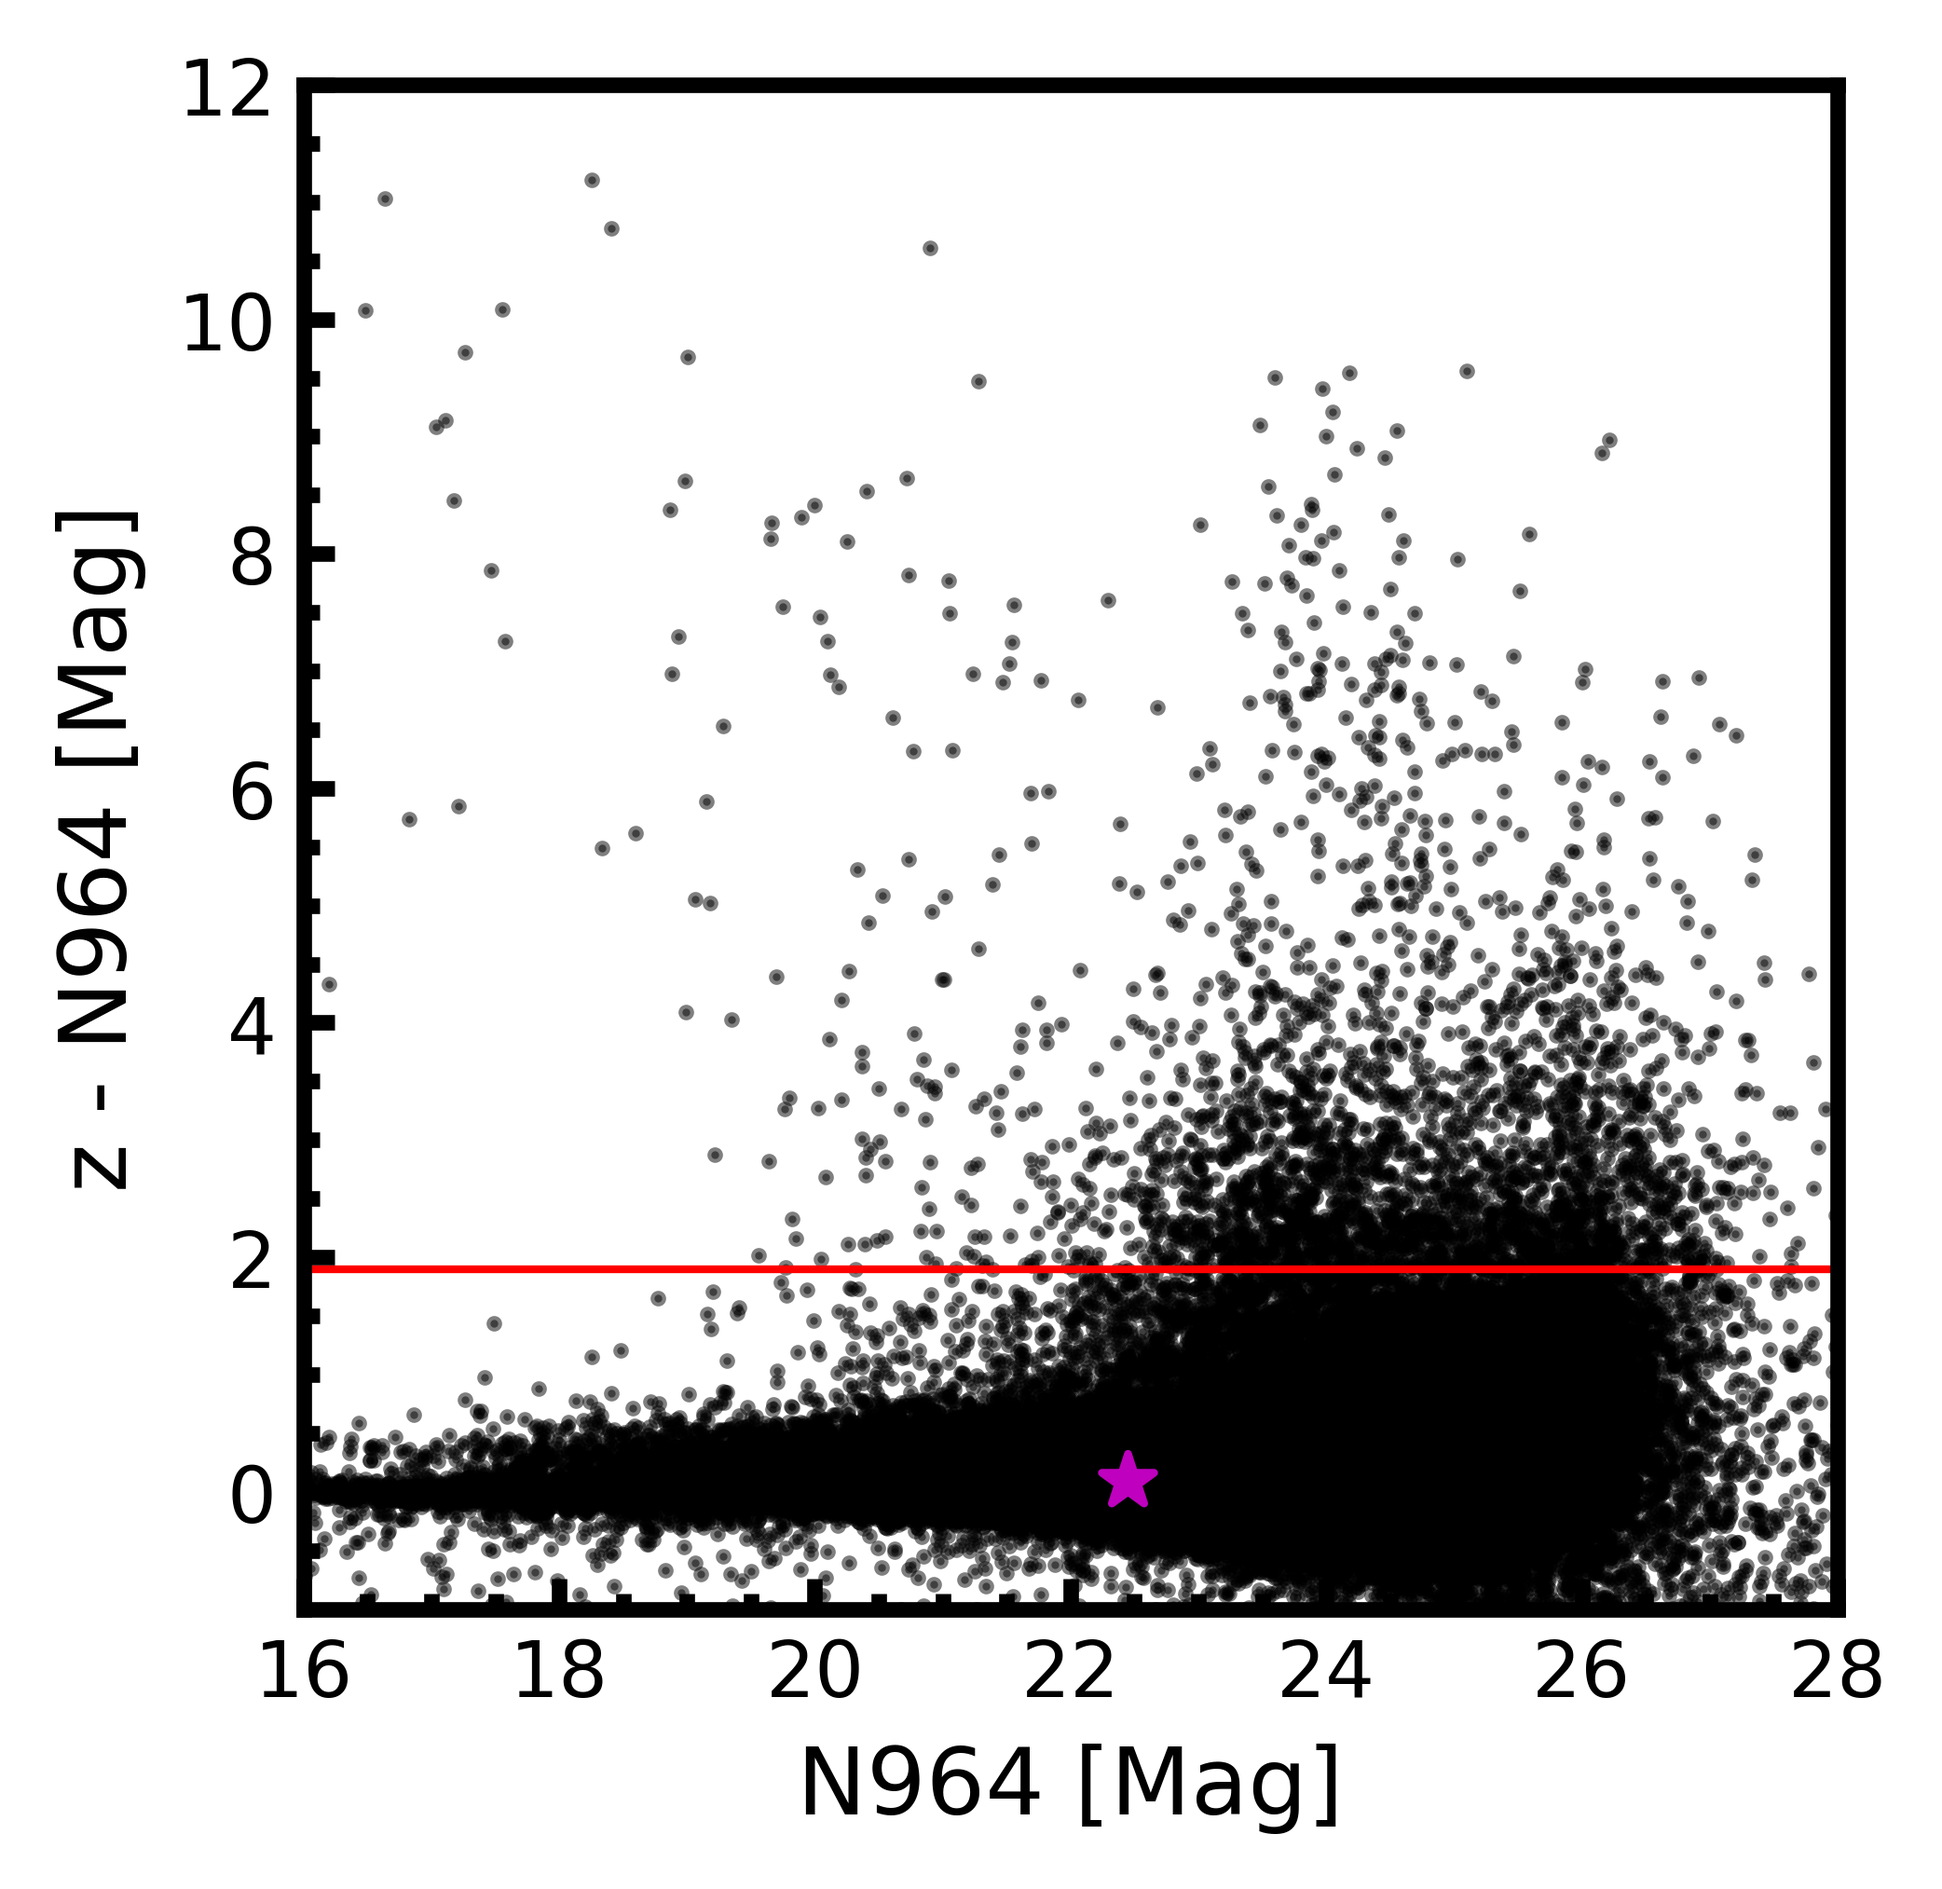
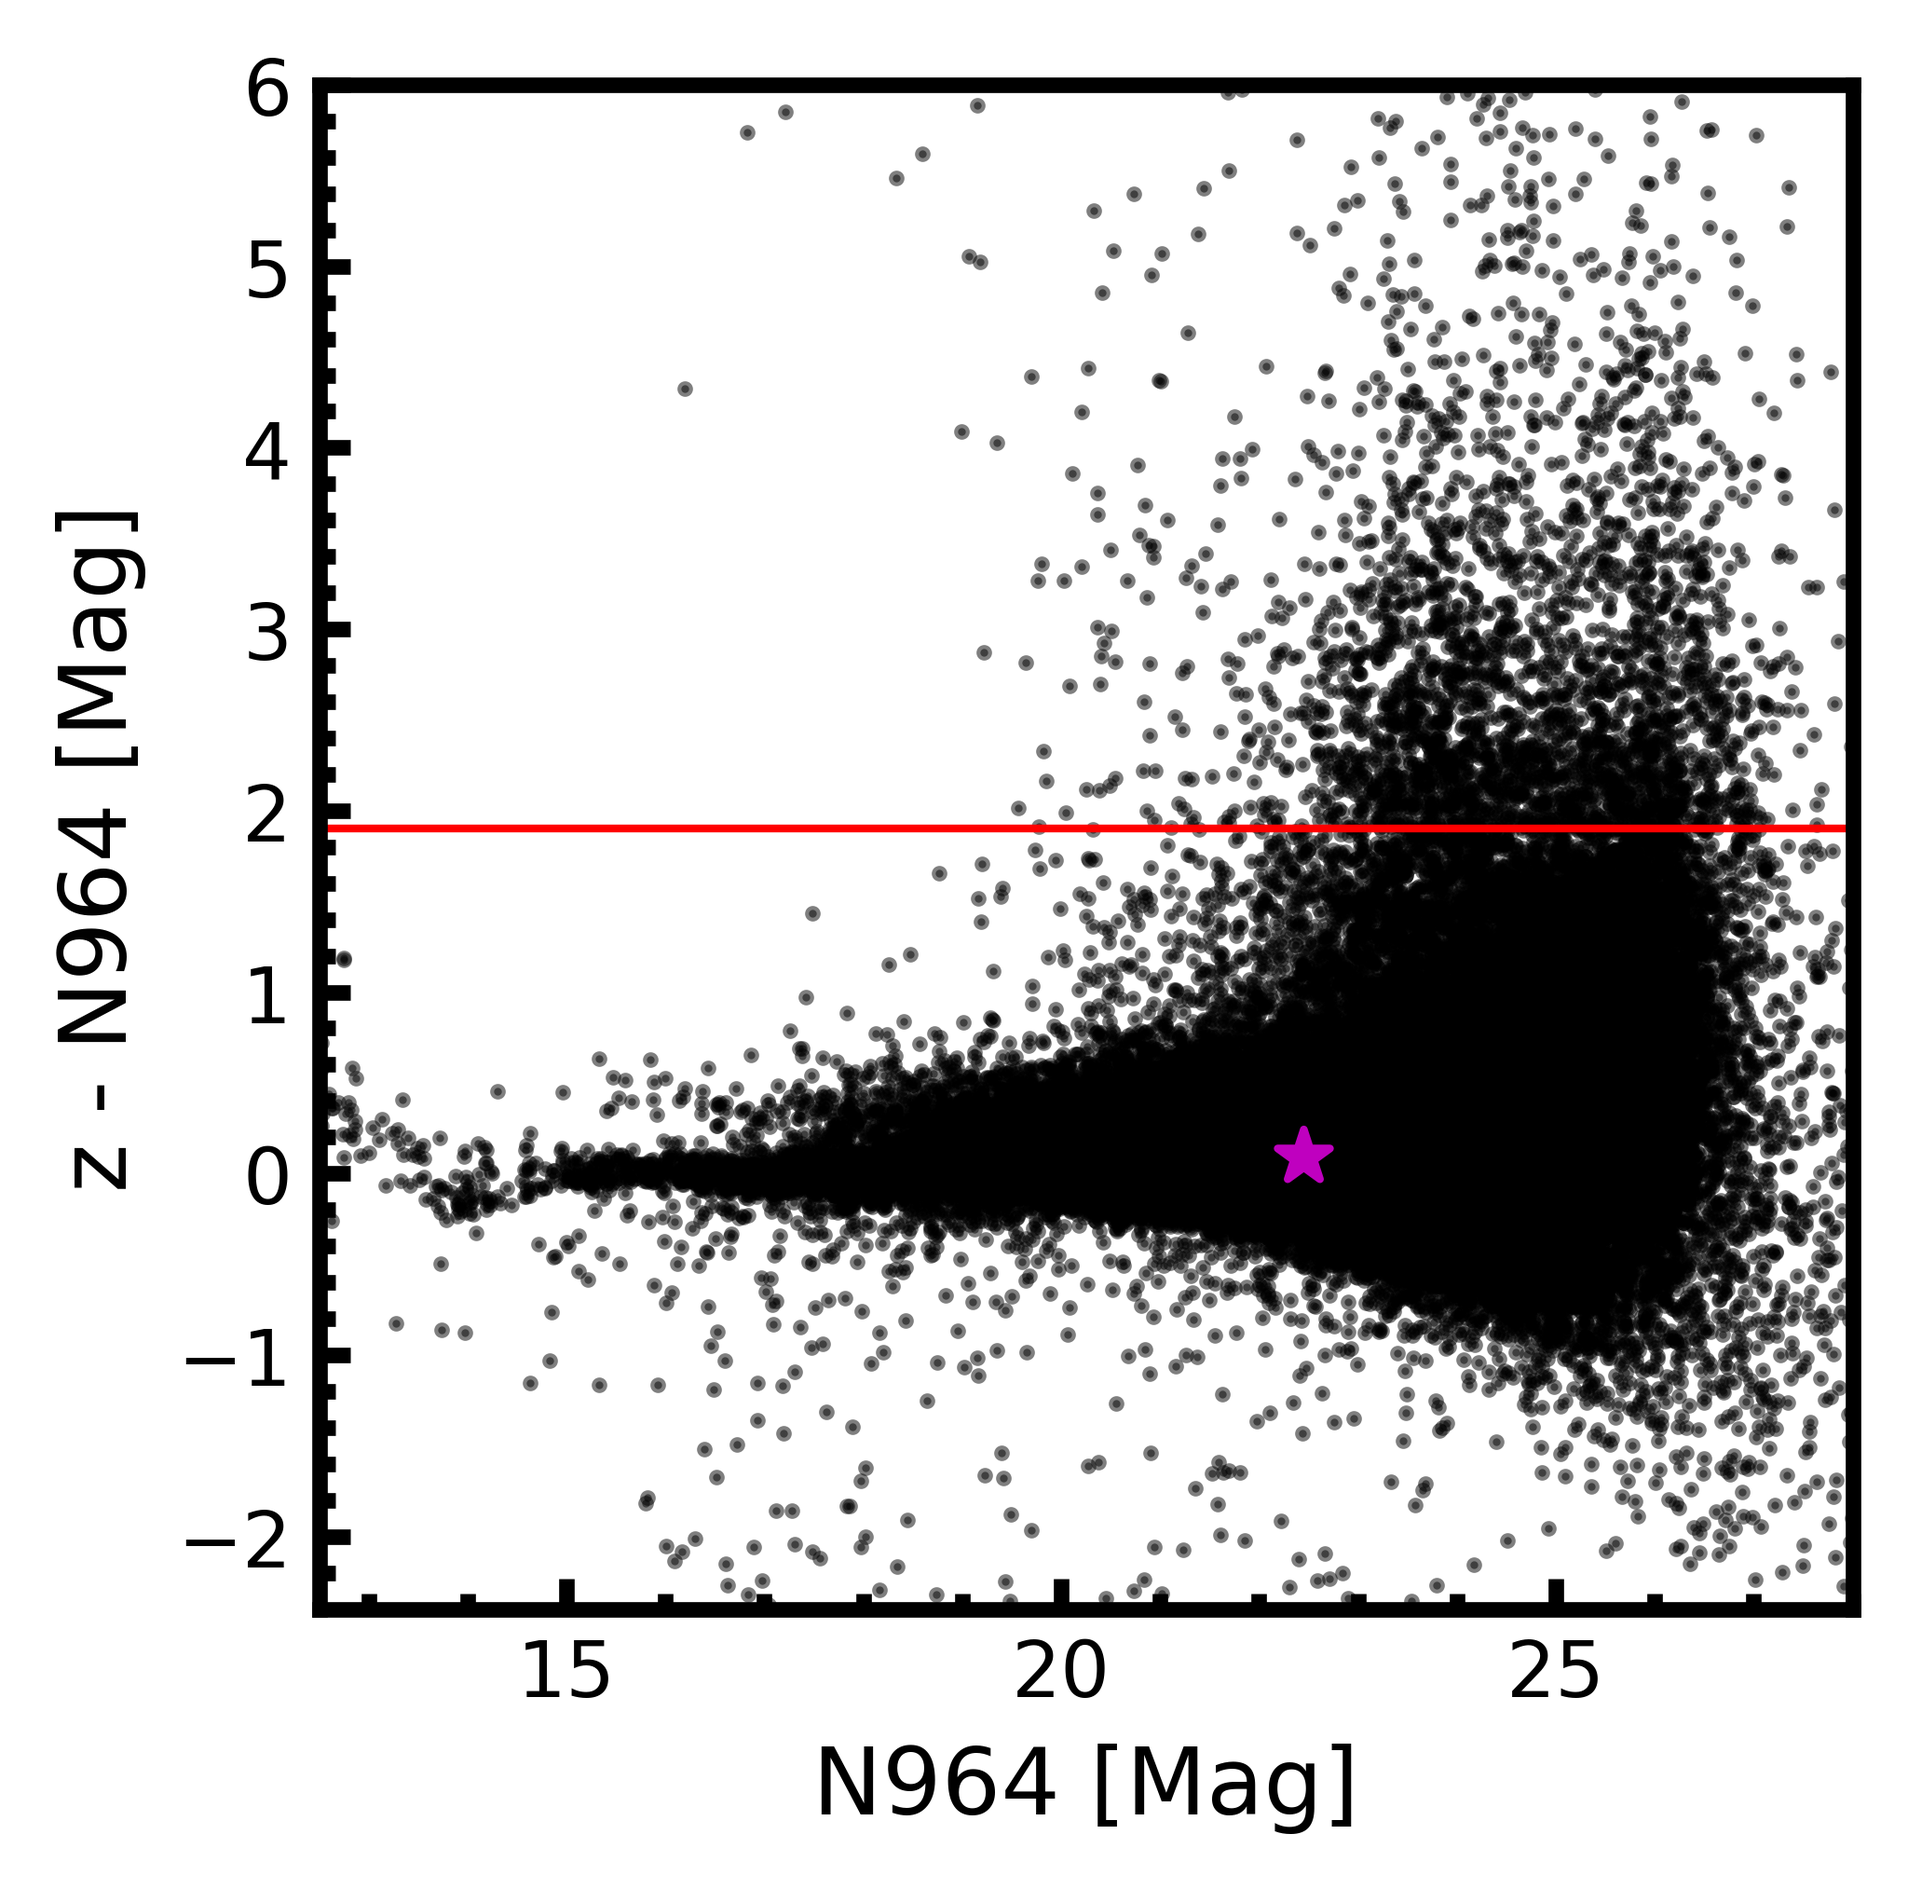
added i-band hu plots.

diff --git a/hu_2019_plot.py b/hu_2019_plot.py
@@ -26,47 +26,37 @@ def remove_dumb_values(array_1, array_2):
     return cut
 
 if __name__ == '__main__':
-    FWHM = 9.5
-    sigma = FWHM / 2.355
-    MU = 964
-    FUDGE = 1000
-
-    wavelength, i_band, z_band = np.loadtxt('DECAM_filters.txt', unpack=True, usecols=(0, 4, 5))
-    '''fig = plt.figure(figsize = (2 * 3.54, 3.54), dpi = 600)
-    plt.plot(wavelength, i_band, lw=2, label = 'i')
-    plt.plot(wavelength, z_band, lw=2, label = 'z')
-    x_plot = np.linspace(600, wavelength[-1], 100000)
-    plt.plot(x_plot, FUDGE * stats.norm.pdf(x_plot, MU, sigma), label='NB964', lw=2.1)
-    #plt.axvline(959.29,ls = '--', color='k', lw = 3)
-    plt.axvline(960.4,ls = '--', color='k')
-    plt.xlim(600)
-    plt.legend()
-    plt.xlabel('Wavelength [nm]', fontsize = 12)
-    plt.ylabel('Arbitary Units', fontsize = 12)
-    plt.tick_params(which='both', width=2,direction='in')
-    plt.tick_params(which='major', length=4, direction='in')
-    plt.savefig('Filters.png', bbox_inches = 'tight', transparent = False)'''
-
-    ##############################
-
     Z_FILE = '/media/trystan/TOSHIBA EXT/DECAM/correct_stacks/N964/z.cat'
     N_FILE = '/media/trystan/TOSHIBA EXT/DECAM/correct_stacks/N964/n964.cat'
-    RA_qso = (23 + (48/60) + (33.34/3600)) * (360/24)
-    DEC_qso = (30 + (54/60) + (10/3600)) * -1
+    I_FILE = '/media/trystan/TOSHIBA EXT/DECAM/correct_stacks/N964/i.cat'
+    RA_QSO = (23 + (48/60) + (33.34/3600)) * (360/24)
+    DEC_QSO = (30 + (54/60) + (10/3600)) * -1
+
+    i_ra, i_dec, i_mag = read_in_test_cats(I_FILE)
     z_ra, z_dec, z_mag = read_in_test_cats(Z_FILE)
     n_ra, n_dec, n_mag = read_in_test_cats(N_FILE)
+
     z_mag += 30.538
     n_mag += 29.012
+    i_mag += 30.870
     #good_idx = remove_dumb_values(z_mag, n_mag)
-     
-    catalog = SkyCoord(ra = n_ra*u.deg, dec = n_dec*u.deg)
-    c = SkyCoord(ra = RA_qso * u.deg, dec = DEC_qso * u.deg)
+
+    catalog = SkyCoord(ra = z_ra*u.deg, dec = z_dec*u.deg)
+    c = SkyCoord(ra = RA_QSO * u.deg, dec = DEC_QSO * u.deg)
     idx, d2d, _ = c.match_to_catalog_sky(catalog)
 
     plotting.start_plot('N964 [Mag]', 'z - N964 [Mag]')
     plt.scatter(n_mag, z_mag - n_mag, s=1, color='k', alpha=0.5)
     plt.scatter(n_mag[idx], z_mag[idx] - n_mag[idx], marker='*', s=50, color='m')
-    plt.xlim(16, 28) 
-    plt.ylim(-1,12)
+    plt.xlim(12.5, 28)
+    plt.ylim(-2.4,6)
     plt.axhline(1.9, color='r', lw=1)
     plotting.end_plot('plots/hu_plot_z.png')
+
+    plotting.start_plot('N964 [Mag]', 'i - N964 [Mag]')
+    plt.scatter(n_mag, i_mag - n_mag, s=1, color='k', alpha=0.5)
+    plt.scatter(n_mag[idx], i_mag[idx] - n_mag[idx], marker='*', s=50, color='m')
+    plt.xlim(12.5, 28)
+    plt.ylim(-2.4,6)
+    plt.axhline(0.8, color='r', lw=1)
+    plotting.end_plot('plots/hu_plot_i.png')

diff --git a/main.py b/main.py
@@ -158,6 +158,7 @@ def plot_difference_fit(
     c = a_fit[0]
     plotting.start_plot(x_label = x_label, y_label=y_label)
     #plt.title(f'{c} +- {uncertainties[0]}')
+    print(f'HELLO THIS THE ZPT: {c} +- {uncertainties[0]}')
     plt.errorbar(mag, diff, xerr=mag_err, yerr=diff_err,
                  fmt='ko', ms=3, capsize=0, alpha=0.5)
 
